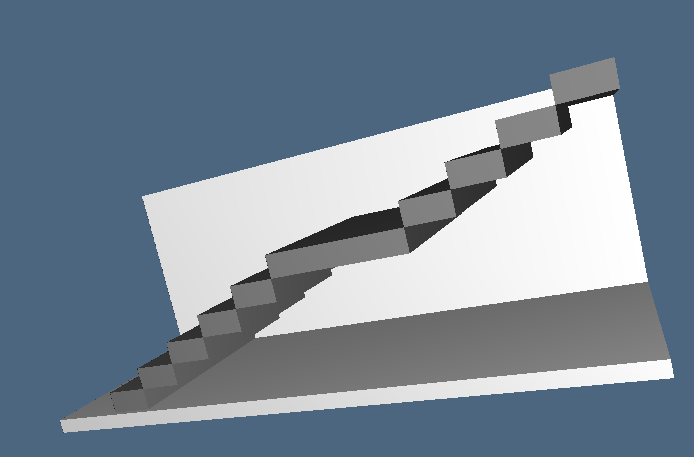
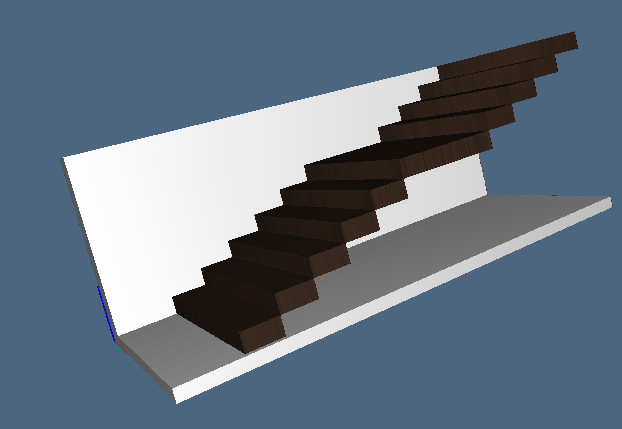
update workshop n.3

diff --git a/2016-10-28/workshop_03.py b/2016-10-28/workshop_03.py
@@ -12,6 +12,8 @@ dx --> larghezza gradino (parametro formale X)
 dy --> lunghezza gradino (parametro formale Y)
 dz --> altezza gradino (parametro formale Z)
 """
+woodTexture = "texture/wood.png"
+
 wall=0.5
 ground=0.20
 footboard=1.0
@@ -35,11 +37,13 @@ della loro altezza e della lunghezza del pianerottolo
 def buildStair(x,y,z,tempWeight,tempHeight,tempStruct):
 	if(2.0*length/5.0<tempWeight<4.0*length/5.0):
 		step=COLOR(BROWN)(CUBOID([x, y*3, z]))
+		step = TEXTURE([woodTexture, TRUE, FALSE, 1, 1, 0, 1, 1])(CUBOID([x, y*3, z]))
+
 		traslation=STRUCT([T([1,2,3])([wall/3,tempWeight,tempHeight]),step])
 		tempWeight=tempWeight + y*3.0
 		tempHeight=tempHeight + z	
 	else:
-		step=COLOR(BROWN)(CUBOID([x, y, z]))
+		step = TEXTURE([woodTexture, TRUE, FALSE, 1, 1, 0, 1, 1])(CUBOID([x, y, z]))
 		traslation=STRUCT([T([1,2,3])([wall/3,tempWeight,tempHeight]),step])
 		tempWeight=tempWeight + y
 		tempHeight=tempHeight + z
